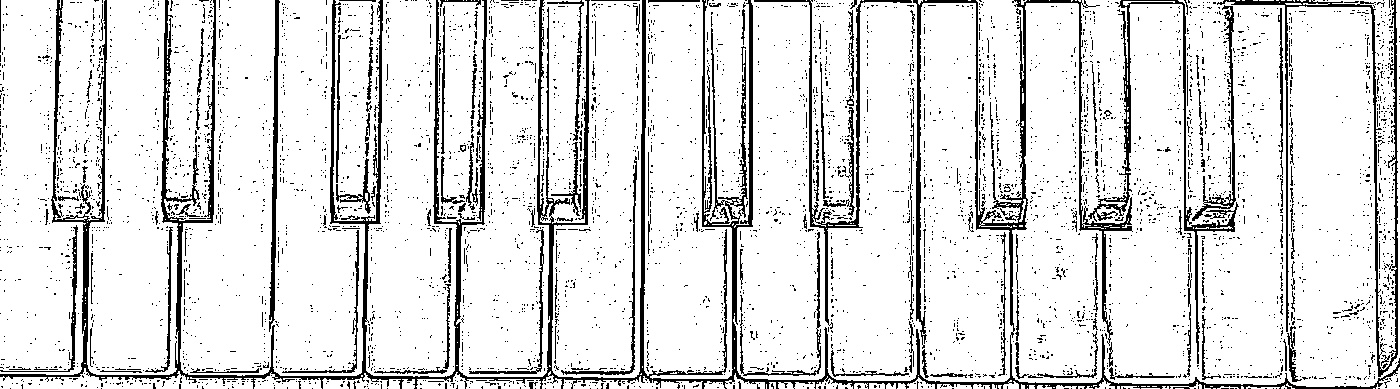
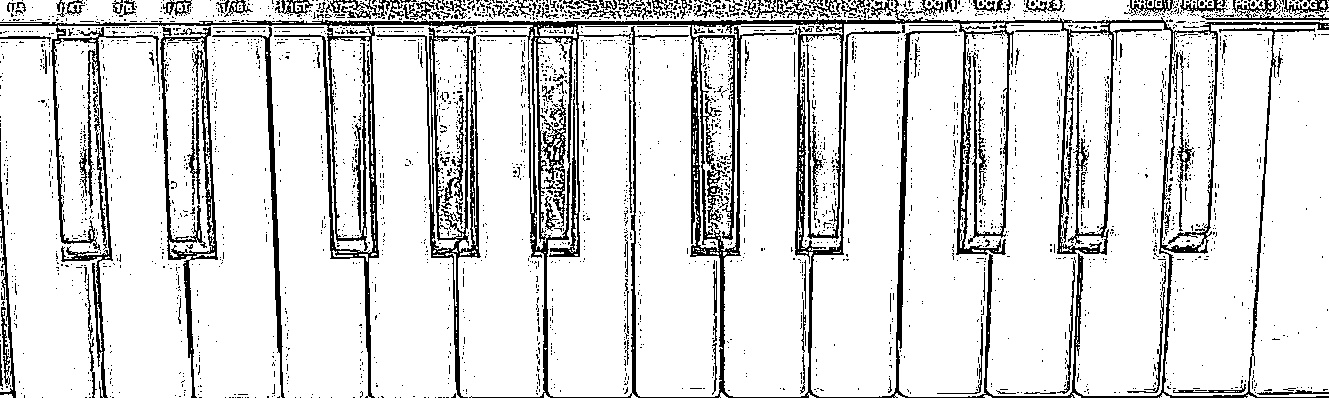
fixed black keys i thnik

diff --git a/src/img_proc.py b/src/img_proc.py
@@ -41,7 +41,7 @@ class ImgProc:
         img = cv2.imread(src_img_path)
         img2 = img.copy()
         x,y,_ =  img.shape
-        img_center = (y/2,x/2)
+        img_center = ((y/2)-10,x/2)
 
         gray = cv2.cvtColor(img, cv2.COLOR_BGR2GRAY)
 
@@ -62,7 +62,7 @@ class ImgProc:
         dilation = cv2.morphologyEx(thresh2,cv2.MORPH_OPEN,kernel=np.ones((7, 7), np.uint8))
         cv2.imwrite('img/results/open.jpg',dilation)
         contours, _ = cv2.findContours(dilation, cv2.RETR_EXTERNAL, cv2.CHAIN_APPROX_SIMPLE)
-        min_contour_area = 5000
+        min_contour_area = 10000
         valid_contours = [contour for contour in contours if cv2.contourArea(contour) > min_contour_area]
 
         white_keys = []
@@ -73,7 +73,8 @@ class ImgProc:
         
 
         #detect black keys
-        _,thresh = cv2.threshold(img2,127,255,cv2.THRESH_BINARY)
+        blur = cv2.GaussianBlur(img2,[7,7],1)
+        _,thresh = cv2.threshold(blur,127,255,cv2.THRESH_BINARY)
         opned = cv2.morphologyEx(thresh, cv2.MORPH_OPEN, kernel= np.ones((13, 13), np.uint8))
         closed = cv2.morphologyEx(opned, cv2.MORPH_CLOSE, kernel= np.ones((7, 7), np.uint8))
         edges = cv2.Canny(closed,50,150)
@@ -97,11 +98,24 @@ class ImgProc:
         for i in range(len(edges[int(img_center[1])])):
             if edges[int(img_center[1])][i] == 255: points.append(i)
 
+        left = []
+        right = []
 
-        left = points[0:int(len(points)/2)]
-        right = points[int(len(points)/2):len(points)]
+        for i in  points:
+            if i < img_center[0]: left.append(i)
+            else: right.append(i)
+
+        # for i in  left:
+        #     cv2.circle(img,(i,int(img_center[1]),),10,(255,0,0),1)
+
+        # for i in  right:
+        #     cv2.circle(img,(i,int(img_center[1]),),10,(0,255,0),1)
+
+        # cv2.circle(img,(int(img_center[0]),int(img_center[1]),),10,(0,0,255),1)
+
         left = left[len(left)-10:10]
         right = right[0:10]
+
 
 
         black_keys= []

diff --git a/src/main.py b/src/main.py
@@ -3,7 +3,7 @@ from img_proc import ImgProc
 def main():
     # hull = ImgProc.convexHull('img/pressedkeyboard.png')
     # ImgProc.crop_img('img/pressedkeyboard.png',hull)
-    ImgProc.find_piano('img/keyboard_exemples/kbd1.jpeg')
+    ImgProc.find_piano('img/keyboard_exemples/kbd4.jpeg')
     black_kesy, white_keys = ImgProc.find_keys('img/results/cropped_keyboard.jpg')
     #print(black_kesy, white_keys)
 
